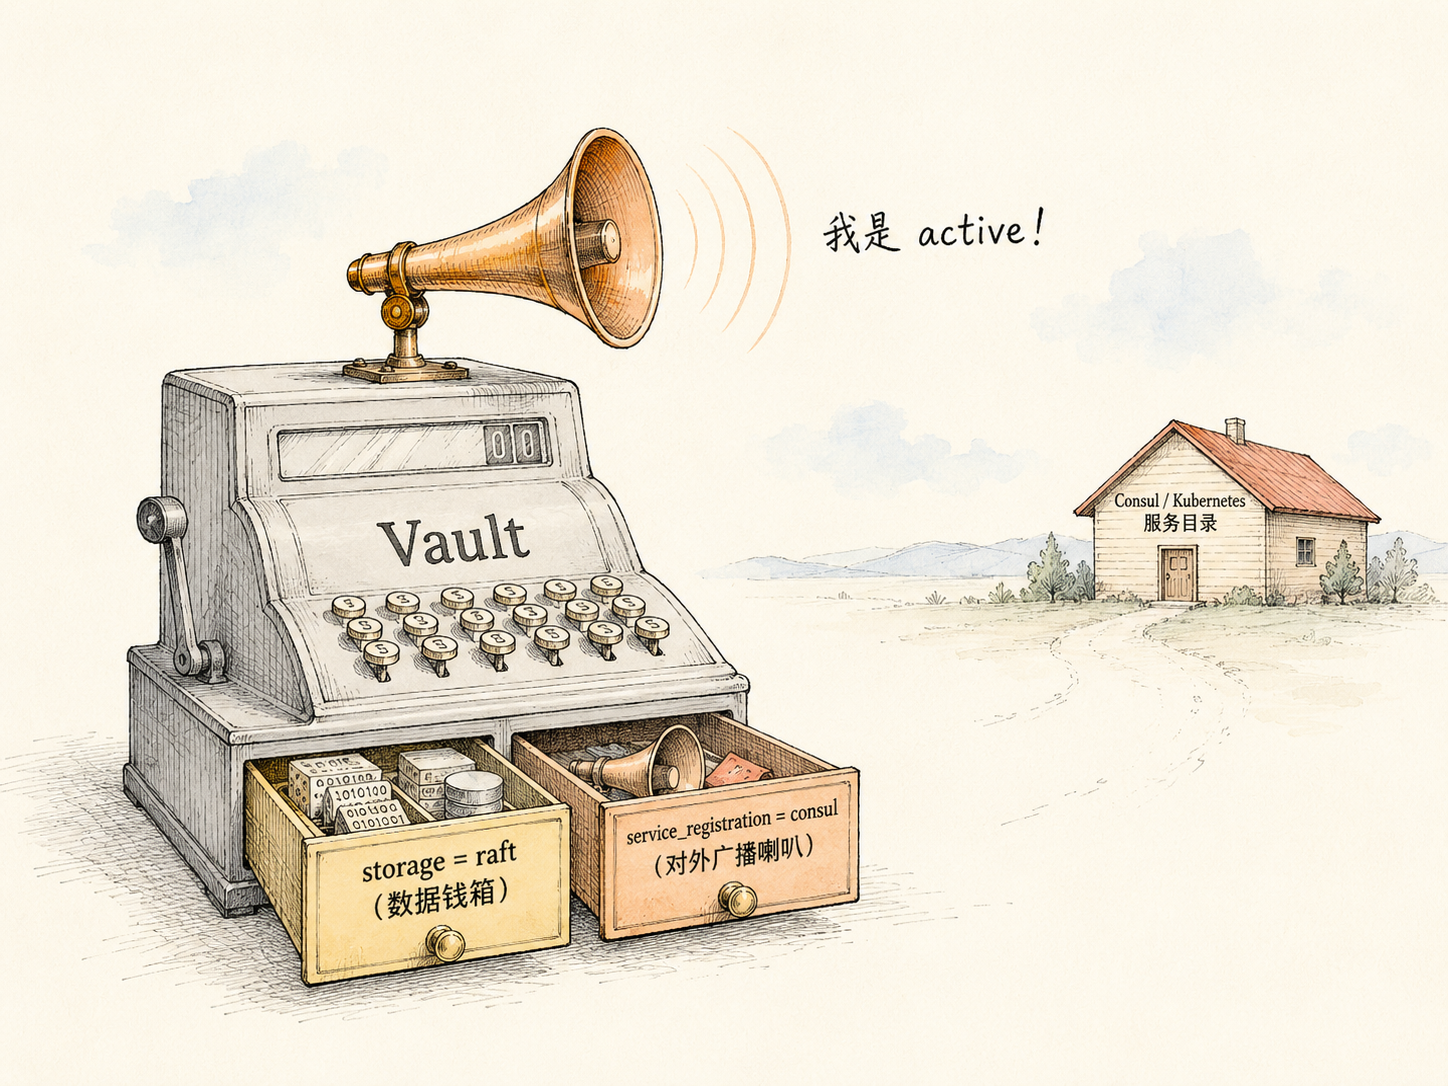
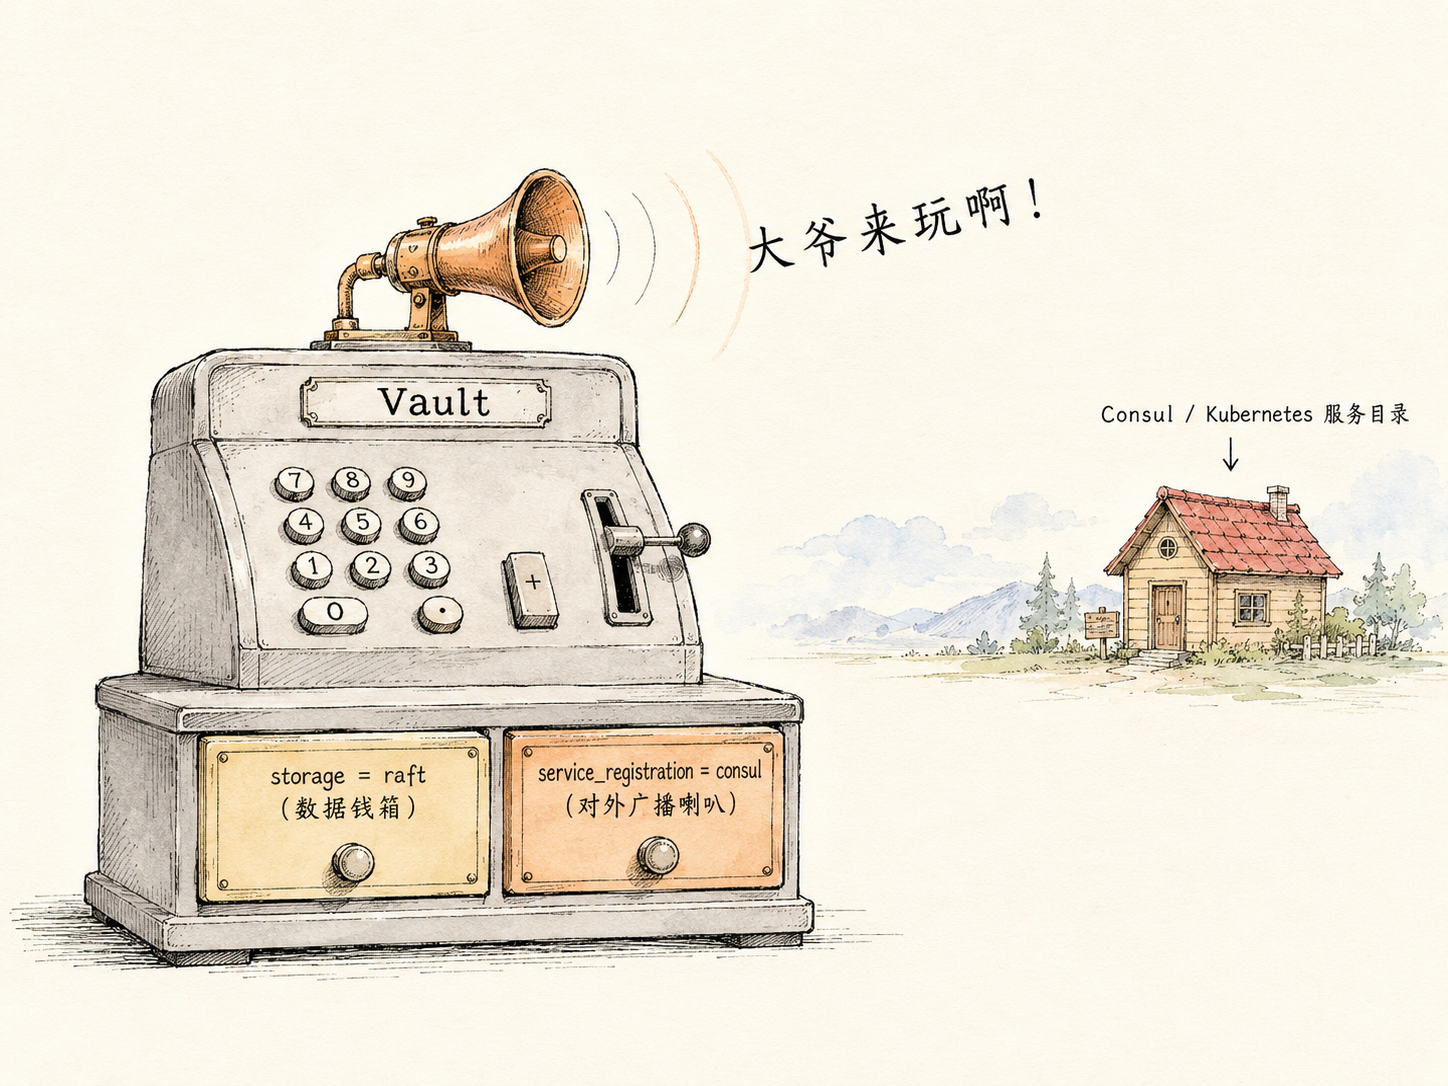
ch6-service-registration: fix image prompt so vault.service.consul links to all unsealed nodes

Changed region(s): [[0.0, 0.1215, 0.7148, 0.942], [0.5283, 0.3646, 1.0, 0.6685]]

diff --git a/docs/ch6-service-registration.md b/docs/ch6-service-registration.md
@@ -26,7 +26,6 @@ group_order: 60
 > 该配置项是在 Vault 1.4.0 中引入的，更老的版本无法直接套用本节的写法。
 
 ![service_registration 与 storage 在配置文件中的关系：当存储后端不是 Consul 时，必须显式声明一个独立的 service_registration 块来让外部系统感知 Vault 节点状态](/images/ch6-service-registration/stanza-position.png)
-> 配图提示词（手绘风、真实事物比喻，钢笔线绘，水彩淡色阴影风格）：在米白草稿本上画一台老式收银机（标 "Vault"），收银机正面有两个并排的抽屉，左侧抽屉标 "storage = raft（数据钱箱）"，右侧抽屉标 "service_registration = consul（对外广播喇叭）"。收银机顶部有一只铜制喇叭，正向远处一栋小木屋（标 "Consul / Kubernetes 服务目录"）喊话："我是 active!"，喇叭口画几道淡淡的声波弧线。钢笔勾线，水彩淡色阴影——收银机机身浅灰、铜喇叭暖橙、数据抽屉米黄、对外广播抽屉淡橘、小木屋屋顶赭红、墙体淡米色，背景留白点缀几片淡蓝水彩晕染表示远景。
 
 ---
 
@@ -57,7 +56,7 @@ service_registration "consul" {
 处于 sealed 状态的 Vault 节点会主动在健康检查中将自身标记为不健康，因此**不会**被 Consul 的服务发现层返回。
 
 ![Consul 服务注册后形成的三个 DNS 端点：active 只解析到当前活跃节点，standby 只解析到已 unseal 的待命节点，vault 解析到全部已 unseal 节点；sealed 节点全部被 Consul 主动剔除](/images/ch6-service-registration/consul-three-endpoints.png)
-> 配图提示词（手绘风、真实事物比喻，钢笔线绘，水彩淡色阴影风格）：画一个三层木质抽屉柜（标 "Consul DNS 服务目录"），三层抽屉从上到下分别贴标签 "active.vault.service.consul"、"standby.vault.service.consul"、"vault.service.consul"。柜子右侧站着四只小机器人（vault-1 / vault-2 / vault-3 / vault-4），其中 vault-2 头顶亮起一盏小灯标 "active"，vault-1 与 vault-3 胸前挂 "standby unsealed" 牌、神情平和，vault-4 全身被铁链缠住、贴着写有 "sealed" 的封条、表情委屈；从前三只机器人身上引出柔和的细线分别落入对应抽屉，sealed 的 vault-4 没有任何线指向任何抽屉，旁边一只小章鱼伸出爪子把它温柔地推到柜子外面。钢笔勾线，水彩淡色阴影——木柜浅木黄、机器人冷灰、活跃节点的灯与高亮抽屉用饱和度稍高的水彩朱橙、sealed 封条用水彩朱红、章鱼淡粉紫，整体留白舒朗。
+> 配图提示词（手绘风、真实事物比喻，钢笔线绘，水彩淡色阴影风格）：画一个三层木质抽屉柜（标 "Consul DNS 服务目录"），三层抽屉从上到下分别贴标签 "active.vault.service.consul"、"standby.vault.service.consul"、"vault.service.consul"。柜子右侧站着四只小机器人（vault-1 / vault-2 / vault-3 / vault-4），其中 vault-2 头顶亮起一盏小灯标 "active"，vault-1 与 vault-3 胸前挂 "standby unsealed" 牌、神情平和，vault-4 全身被铁链缠住、贴着写有 "sealed" 的封条、表情委屈。引线规则严格按照三个 DNS 端点的语义：从 vault-2 引一条线只落入第一层（active）抽屉；从 vault-1 与 vault-3 各引一条线只落入第二层（standby）抽屉；同时再从 vault-1、vault-2、vault-3 三只机器人**各**引出一条线，共三条线一起汇入第三层（vault）抽屉，体现"全部已 unseal 节点"的全集语义。sealed 的 vault-4 没有任何线指向任何抽屉，旁边一只小章鱼伸出爪子把它温柔地推到柜子外面。可用不同颜色区分三组连线（active 朱橙、standby 灰蓝、全集 草绿）以避免视觉混乱。钢笔勾线，水彩淡色阴影——木柜浅木黄、机器人冷灰、活跃节点的灯与 active 抽屉用饱和度稍高的水彩朱橙、sealed 封条用水彩朱红、章鱼淡粉紫，整体留白舒朗。
 
 ### 2.3 关键参数：服务命名、健康检查、ACL token 与 TLS
 
